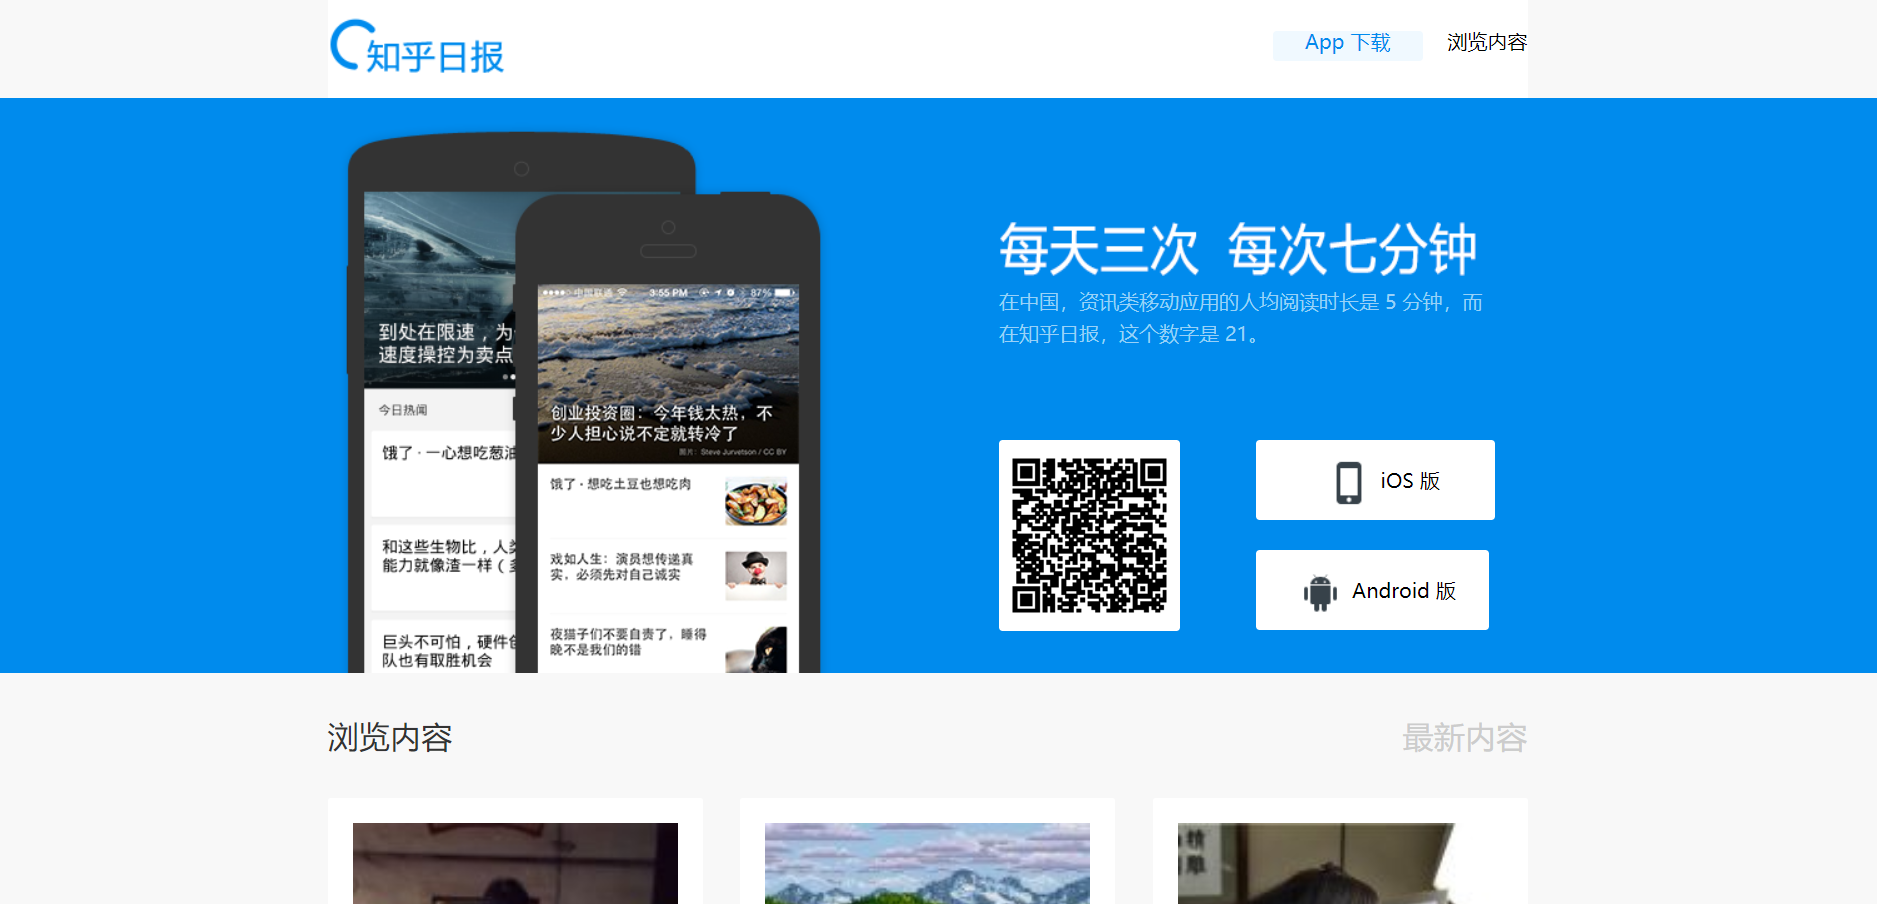
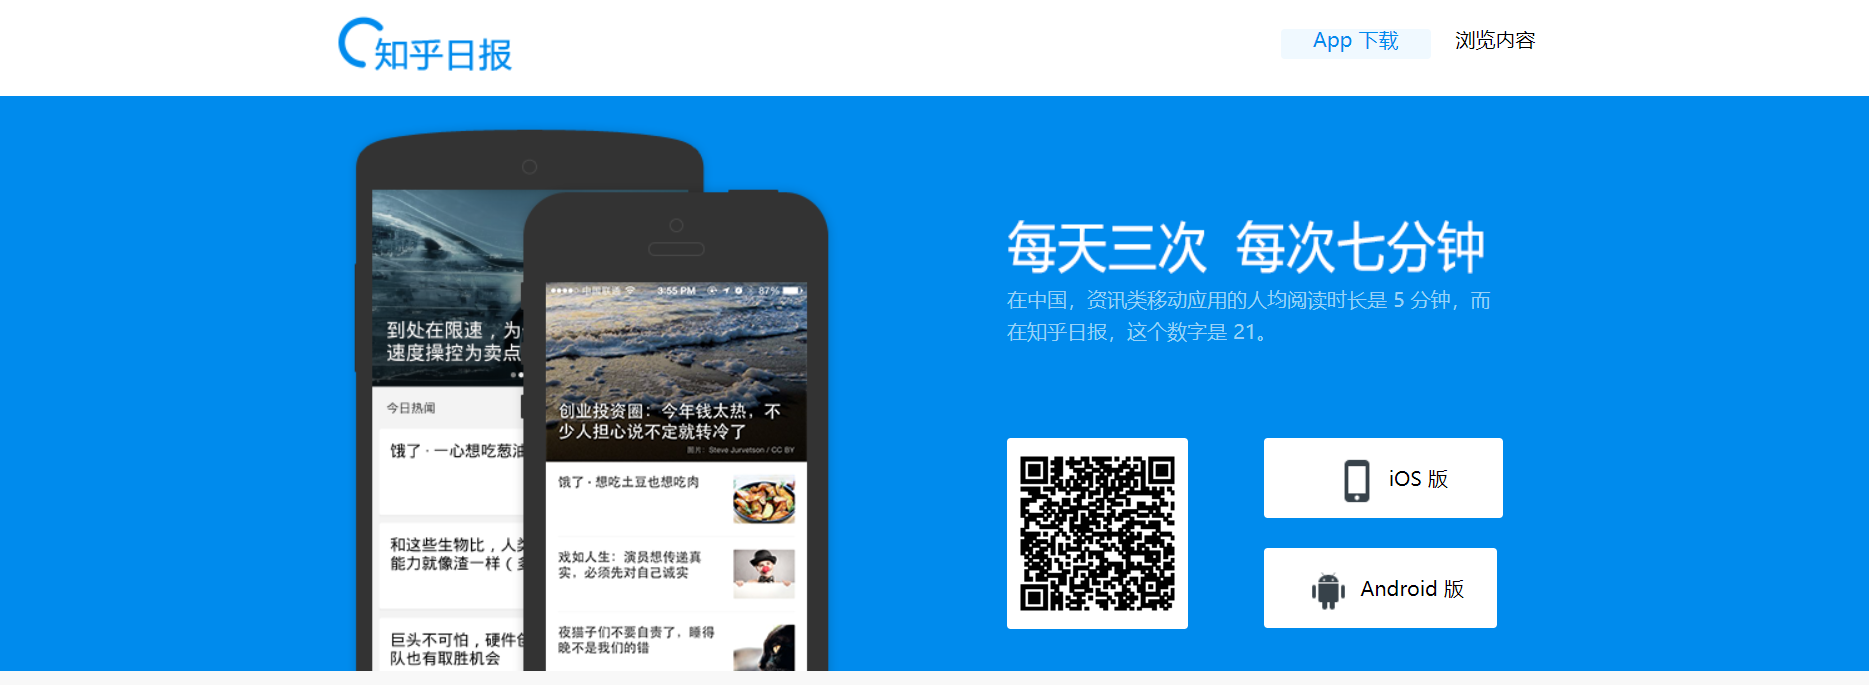
图片

diff --git a/index.js b/index.js
@@ -57,7 +57,7 @@ class App extends React.Component{
         // })
         return <div style={{width:"100vw"}} className={styles.app}>
                     {/*header*/}
-                    <div style={{height:"78px",width:"100%",backgroundColor:"blsue"}}>
+                    <div style={{height:"78px",width:"100%",backgroundColor:"white"}}>
                         <div className={styles.header}>
                             <img className={styles.logo} src="http://daily.zhihu.com/img/new_home_v3/top_logo.png"/>
                             <div className={styles.link}>
@@ -99,11 +99,12 @@ class App extends React.Component{
                             <span className={styles.headrf}>最新内容</span>
                         </div>
                         <div className={styles.artical}>
+                        {/*item?*/}
                             {this.state.stories.map(item=>{
                                 return <div className={styles.box} key={item.title}>
                                 <a href={item.url} className={styles.wrapper}>
                                     <img className={styles.common} src={`http://localhost:9900/imageforward?url=${item.images[0]}`}/>
-                                    <span class="title">{item.title}</span>
+                                    <span className={styles.title}>{item.title}</span>
                                 </a>
                             </div>
                             })}
@@ -122,8 +123,7 @@ class App extends React.Component{
                                 </div>
                                 <div className={styles.rbottom}>
                                     <div className={styles.imgbott}>
[2 lines of base64/hex data omitted]
+                                        <img className={styles.logoo} src="http://daily.zhihu.com/img/new_home_v3/qr_top2.png"/>
                                     </div>
                                     <div className={styles.tip}>扫描下载客户端</div>
                                 </div>

diff --git a/index.css b/index.css
@@ -49,7 +49,7 @@ img.logo{
 
 @keyframes bottomToTop{
     from{
-        margin-top: 50px;
+        margin-top: 100px;
     }
     to{
         margin-top: 12px;
@@ -194,6 +194,7 @@ img.logo{
     line-height: 30px;
     display: block;
     background: #fff;
+    margin-top:10px;
 }
 .more{
     font-size: 20px;

diff --git a/app.js b/app.js
@@ -17,9 +17,8 @@ app.get('/imageforward',(req,res,next)=>{
     request.get(req.query.url).pipe(res)
 })
 
-app.get('/hello',(req,res)=>{
+/*app.get('/hello',(req,res)=>{
     res.send("world")
-})
-
+})*/
 
 app.listen(9900)

diff --git a/README.md b/README.md
@@ -14,4 +14,5 @@
 ## 项目预览图
 
 ![截图](https://github.com/lydiayayaya/zhihuDaily-React/blob/master/image.png)
-![截图](https://github.com/lydiayayaya/zhihuDaily-React/blob/master/img2.png)
+![截图](https://github.com/lydiayayaya/zhihuDaily-React/blob/master/image2.png)
+![截图](https://github.com/lydiayayaya/zhihuDaily-React/blob/master/image3.png)
